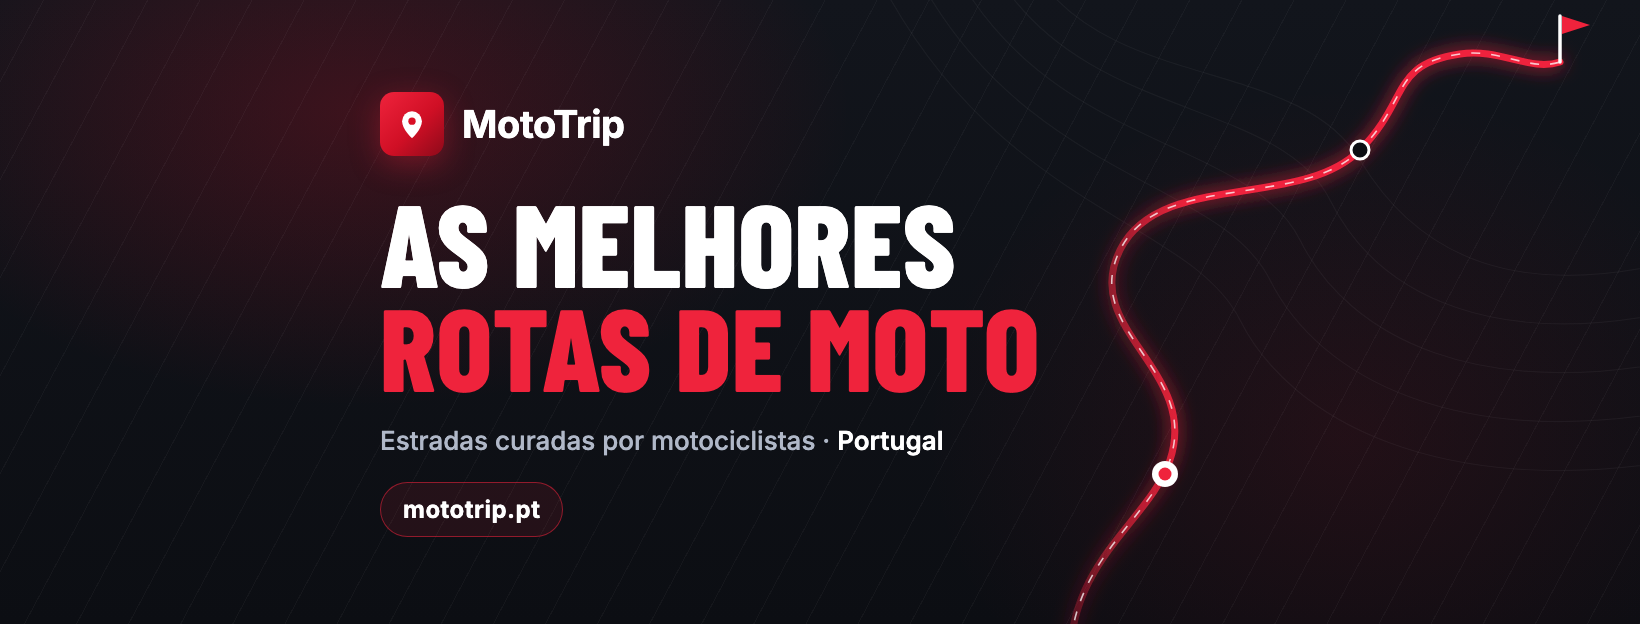
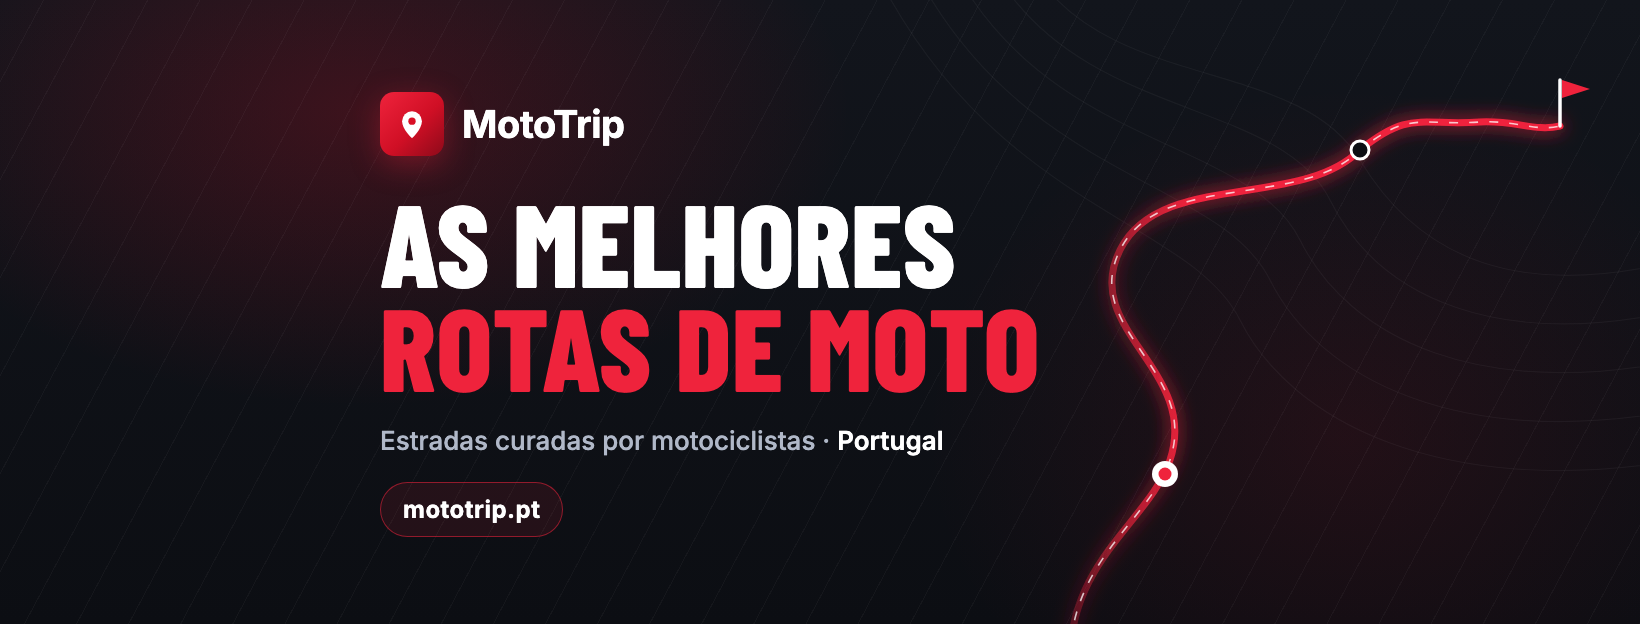
Brand: keep Facebook cover flag inside desktop crop

Changed region(s): [[0.8085, 0.0304, 0.964, 0.2436]]

diff --git a/brand/facebook/capa.html b/brand/facebook/capa.html
@@ -84,10 +84,10 @@
     <g transform="translate(60 0)">
     <!-- the road -->
     <path id="road" d="M1010 660 C1010 560 1090 520 1110 460 C1140 370 1020 330 1060 250
-             C1100 170 1240 210 1300 150 C1350 100 1330 64 1400 54 C1440 48 1470 72 1500 62"
+             C1100 170 1240 210 1300 150 C1350 110 1360 126 1420 122 C1455 120 1475 132 1500 126"
           fill="none" stroke="url(#fade)" stroke-width="7" stroke-linecap="round" filter="url(#glow)"/>
     <path d="M1010 660 C1010 560 1090 520 1110 460 C1140 370 1020 330 1060 250
-             C1100 170 1240 210 1300 150 C1350 100 1330 64 1400 54 C1440 48 1470 72 1500 62"
+             C1100 170 1240 210 1300 150 C1350 110 1360 126 1420 122 C1455 120 1475 132 1500 126"
           fill="none" stroke="rgba(255,255,255,.75)" stroke-width="1.6" stroke-dasharray="9 11"/>
 
     <!-- waypoints -->
@@ -98,7 +98,7 @@
     </g>
 
     <!-- finish flag -->
-    <g transform="translate(1500 62)">
+    <g transform="translate(1500 126)">
       <line x1="0" y1="0" x2="0" y2="-46" stroke="#fff" stroke-width="3.5" stroke-linecap="round"/>
       <path d="M2 -46 L30 -37 L2 -28 Z" fill="#EF233C"/>
     </g>
